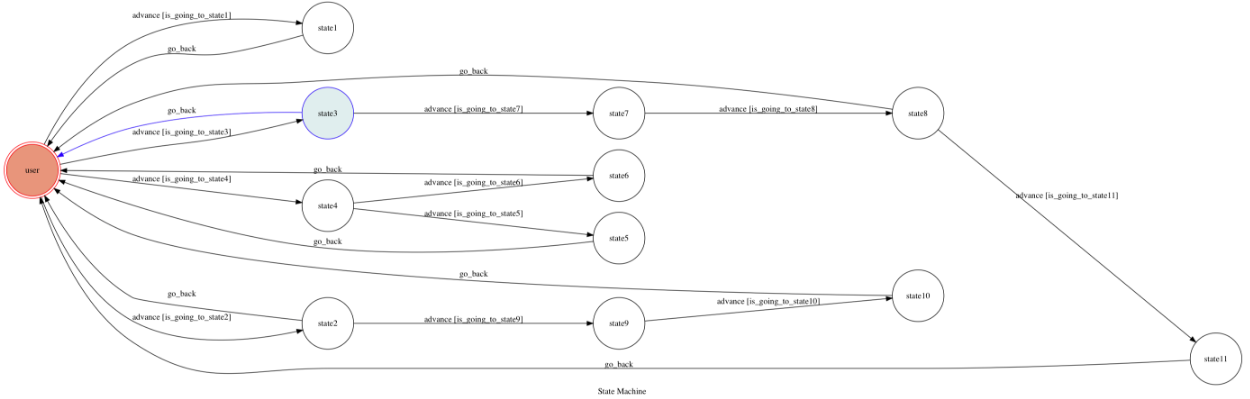
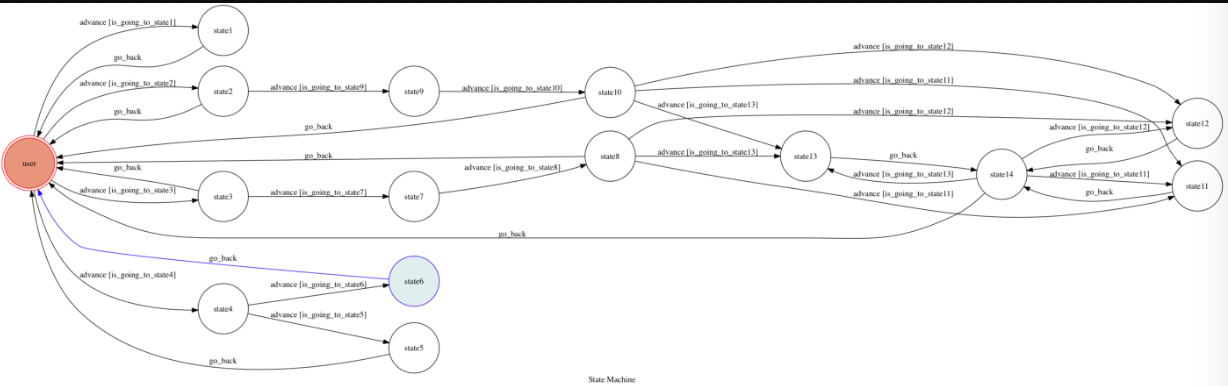
second commit

diff --git a/fsm.py b/fsm.py
@@ -2,6 +2,7 @@ from transitions.extensions import GraphMachine
 import tmdbsimple as tmdb
 tmdb.API_KEY = '164de636f92ccc9e6587bf118fb26d8d'
 string = ''
+movie_id=0
 
 class TocMachine(GraphMachine):
     def __init__(self, **machine_configs):
@@ -85,6 +86,27 @@ class TocMachine(GraphMachine):
             check=1
         return check
     
+    def is_going_to_state11(self, update):
+        text = update.message.text
+        if "video" in text.lower() or "trailer" in text.lower():
+            return 1
+        elif 'return' in text.lower():
+            self.go_back(update)
+    
+    def is_going_to_state12(self, update):
+        text = update.message.text
+        if "similar" in text.lower():
+            return 1
+        elif 'return' in text.lower():
+            self.go_back(update)
+    
+    def is_going_to_state13(self, update):
+        text = update.message.text
+        if "image" in text.lower() or "picture" in text.lower() or "photo" in text.lower():
+            return 1
+        elif 'return' in text.lower():
+            self.go_back(update)
+    
     def on_enter_state1(self, update):
         search = tmdb.Search()
         response = search.movie(query=string)
@@ -100,7 +122,7 @@ class TocMachine(GraphMachine):
     def on_enter_state2(self, update):
         movie = tmdb.Movies()
         response = movie.upcoming()
-        lists=response['results']
+        lists=response['results'][0:5]
         msg='There are several movies upcoming now.\n\n'
         update.message.reply_text(msg)
         for s in lists:
@@ -118,7 +140,7 @@ class TocMachine(GraphMachine):
     def on_enter_state3(self, update):
         movie = tmdb.Movies()
         response = movie.now_playing()
-        lists=response['results']
+        lists=response['results'][0:10]
         msg='There are several movies playing now.\n\n'
         update.message.reply_text(msg)
         for s in lists:
@@ -164,7 +186,7 @@ class TocMachine(GraphMachine):
     def on_enter_state6(self, update):
         movie = tmdb.Movies()
         response = movie.popular()
-        lists=response['results']
+        lists=response['results'][0:5]
         msg='This are several popular movies recently\n\n'
         update.message.reply_text(msg)
         for s in lists:
@@ -192,6 +214,7 @@ class TocMachine(GraphMachine):
         msg=''
         for s in lists:
             if s['title'].lower() == string:
+                global movie_id
                 movie_id=s['id']
                 info = tmdb.Movies(movie_id).info()
                 msg='https://image.tmdb.org/t/p/w500'
@@ -221,15 +244,8 @@ class TocMachine(GraphMachine):
                 for a in country:
                     msg=msg+a['name']+'\n'
                 update.message.reply_text(msg)
-                response1 = tmdb.Movies(movie_id).similar_movies()
-                similar = response1['results']
-                msg='Similar movies:\n'
-                update.message.reply_text(msg)
-                for s1 in similar:
-                    msg='https://image.tmdb.org/t/p/w500'
-                    msg=msg+s1['poster_path']
-                    update.message.reply_photo(msg)
-        self.go_back(update)
+                
+                update.message.reply_text('\n\n\nIf you want to know more about this movie\nenter movie video or movie trailer to see the movie trailer\nenter movie photo or movie picture to see more photo\nenter similar movie to see get some similar movie\nIf you don\'t need more information\nenter return')
     
     def on_exit_state8(self, update):
         print('Leaving state8')
@@ -247,6 +263,7 @@ class TocMachine(GraphMachine):
         msg=''
         for s in lists:
             if s['title'].lower() == string:
+                global movie_id
                 movie_id=s['id']
                 info = tmdb.Movies(movie_id).info()
                 msg='https://image.tmdb.org/t/p/w500'
@@ -276,15 +293,54 @@ class TocMachine(GraphMachine):
                 for a in country:
                     msg=msg+a['name']+'\n'
                 update.message.reply_text(msg)
-                response1 = tmdb.Movies(movie_id).similar_movies()
-                similar = response1['results']
-                msg='Similar movies:\n'
-                update.message.reply_text(msg)
-                for s1 in similar:
-                    msg='https://image.tmdb.org/t/p/w500'
-                    msg=msg+s1['poster_path']
-                    update.message.reply_photo(msg)
-        self.go_back(update)
-    
+                
+                update.message.reply_text('\n\n\nIf you want to know more about this movie\nenter movie video or movie trailer to see the movie trailer\nenter movie photo or movie picture to see more photo\nenter similar movie to see get some similar movie\nIf you don\'t need more information\nenter return')
+
     def on_exit_state10(self, update):
         print('Leaving state10')
+    
+    def on_enter_state11(self, update):
+        response = tmdb.Movies(movie_id).videos()
+        videos = response['results']
+        s=videos[0]
+        msg='https://www.youtube.com/watch?v='
+        msg=msg+s['key']
+        update.message.reply_text(msg)
+        self.go_back(update)
+    
+    def on_exit_state11(self, update):
+        print('Leaving state11')
+    
+    def on_enter_state12(self, update):
+        response = tmdb.Movies(movie_id).similar_movies()
+        similar = response['results'][0:5]
+        msg='Similar movies:\n'
+        update.message.reply_text(msg)
+        for s in similar:
+            msg='https://image.tmdb.org/t/p/w500'
+            msg=msg+s['poster_path']
+            update.message.reply_photo(msg)
+            msg=s['title'] 
+            update.message.reply_text(msg)
+        self.go_back(update)
+
+    def on_exit_state12(self, update):
+        print('Leaving state12')
+    
+    def on_enter_state13(self, update):
+        response = tmdb.Movies(movie_id).images()
+        images = response['backdrops'][0:10]
+        for s in images:
+            msg='https://image.tmdb.org/t/p/w500'
+            msg=msg+s['file_path']
+            update.message.reply_photo(msg)
+        self.go_back(update)
+    
+    def on_exit_state13(self, update):
+        print('Leaving state13')
+    
+    def on_enter_state14(self, update):
+        update.message.reply_text('\n\n\nIf you want to know more about this movie\nenter movie video or movie trailer to see the movie trailer\nenter movie photo or movie picture to see more photo\nenter similar movie to see get some similar movie\nIf you don\'t need more information\nenter return')
+    
+    def on_exit_state14(self, update):
+        print('Leaving state14')

diff --git a/app.py b/app.py
@@ -25,8 +25,10 @@ machine = TocMachine(
         'state8',
         'state9',
         'state10',
-        'state11'
-
+        'state11',
+        'state12',
+        'state13',
+        'state14'
     ],
     transitions=[
         {
@@ -79,12 +81,6 @@ machine = TocMachine(
         },
         {
             'trigger': 'advance',
-            'source': 'state8',
-            'dest': 'state11',
-            'conditions': 'is_going_to_state11'
-        },
-        {
-            'trigger': 'advance',
             'source': 'state2',
             'dest': 'state9',
             'conditions': 'is_going_to_state9'
@@ -96,6 +92,60 @@ machine = TocMachine(
             'conditions': 'is_going_to_state10'
         },
         {
+            'trigger': 'advance',
+            'source': [
+                        'state8',
+                        'state10'
+            ],
+            'dest': 'state11',
+            'conditions': 'is_going_to_state11'
+        },
+        {
+            'trigger': 'advance',
+            'source': [
+                        'state8',
+                        'state10'
+            ],
+            'dest': 'state12',
+            'conditions': 'is_going_to_state12'
+        },
+        {
+            'trigger': 'advance',
+            'source': [
+                        'state8',
+                        'state10'
+            ],
+            'dest': 'state13',
+            'conditions': 'is_going_to_state13'
+        },
+        {
+            'trigger': 'advance',
+            'source': 'state14',
+            'dest': 'state11',
+            'conditions': 'is_going_to_state11'
+        },
+        {
+            'trigger': 'advance',
+            'source': 'state14',
+            'dest': 'state12',
+            'conditions': 'is_going_to_state12'
+        },
+        {
+            'trigger': 'advance',
+            'source': 'state14',
+            'dest': 'state13',
+            'conditions': 'is_going_to_state13'
+        },
+        {
+            'trigger': 'go_back',
+            'source': [
+                'state11',
+                'state12',
+                'state13'
+            ],
+            'dest': 'state14'
+        },
+        {
             'trigger': 'go_back',
             'source': [
                 'state1',
@@ -105,7 +155,7 @@ machine = TocMachine(
                 'state6',
                 'state8',
                 'state10',
-                'state11'
+                'state14'
             ],
             'dest': 'user'
         }
